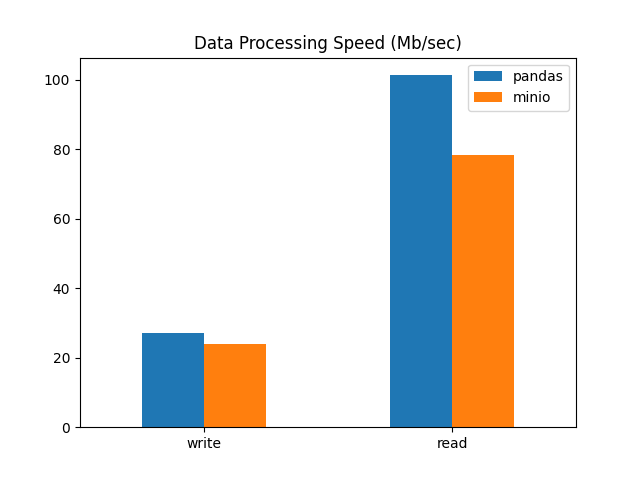
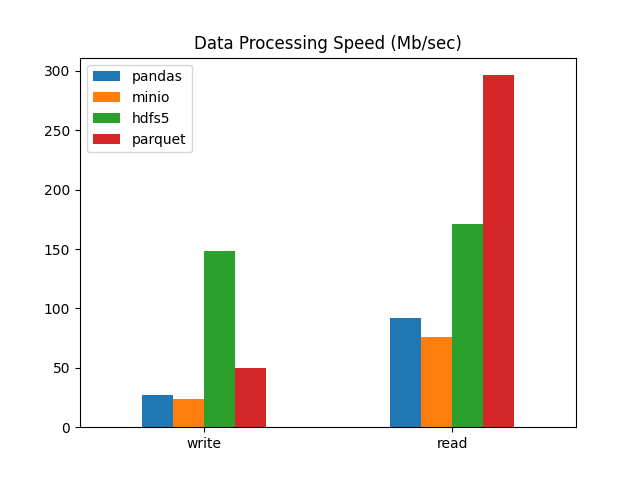
parquet and hdfs are added to benchmark

diff --git a/week-2-storage/benchmark.py b/week-2-storage/benchmark.py
@@ -33,6 +33,14 @@ def init():
         os.mkdir(ROOT_CSV_DIR)
 
 
+def clean_dataframes():
+    # local clean-up
+    csvs = os.listdir(ROOT_CSV_DIR)
+    for csv in csvs:
+        if os.path.exists(ROOT_CSV_DIR + csv):
+            os.remove(ROOT_CSV_DIR + csv)
+
+
 def tear_down():
     # local clean-up
     csvs = os.listdir(ROOT_CSV_DIR)
@@ -128,6 +136,58 @@ def main():
     pd_mean_read_time_csv = elapsed / repeats
     pd_mean_read_speed_csv_mb_per_sec = (csv_size_mb * repeats) / elapsed
 
+    clean_dataframes()
+
+    # Saving with Pandas in hdfs5 format
+    start = default_timer()
+    for i in range(repeats):
+        dataset.to_hdf(ROOT_CSV_DIR + f"dataset_{str(i).zfill(3)}", mode="w", key="df")
+    elapsed = default_timer() - start
+    print(f"[Pandas/HDFS] Total time for saving {repeats} datasets: {time.strftime('%H:%M:%S', time.gmtime(elapsed))}")
+    print(f"[Pandas/HDFS] Average time for saving dataset: {elapsed/repeats} sec")
+    pd_total_write_time_hdfs = elapsed
+    pd_mean_write_time_hdfs = elapsed / repeats
+    pd_mean_write_speed_hdfs_mb_per_sec = (csv_size_mb * repeats) / elapsed
+
+    # Reading with Pandas from hdfs5 format
+    start = default_timer()
+    dfs = []
+    for i in range(repeats):
+        dfs.append(pd.read_hdf(ROOT_CSV_DIR + f"dataset_{str(i).zfill(3)}"))
+    elapsed = default_timer() - start
+    print(f"[Pandas/HDFS] Total time for reading {repeats} datasets: {time.strftime('%H:%M:%S', time.gmtime(elapsed))}")
+    print(f"[Pandas/HDFS] Average time for reading dataset: {elapsed/repeats} sec")
+    pd_total_read_time_hdfs = elapsed
+    pd_mean_read_time_hdfs = elapsed / repeats
+    pd_mean_read_speed_hdfs_mb_per_sec = (csv_size_mb * repeats) / elapsed
+
+    clean_dataframes()
+
+    # Saving with Pandas in parquet format
+    start = default_timer()
+    for i in range(repeats):
+        dataset.to_parquet(ROOT_CSV_DIR + f"dataset_{str(i).zfill(3)}", compression='gzip')
+    elapsed = default_timer() - start
+    print(f"[Pandas/PARQUET] Total time for saving {repeats} datasets: {time.strftime('%H:%M:%S', time.gmtime(elapsed))}")
+    print(f"[Pandas/PARQUET] Average time for saving dataset: {elapsed/repeats} sec")
+    pd_total_write_time_parquet = elapsed
+    pd_mean_write_time_parquet = elapsed / repeats
+    pd_mean_write_speed_parquet_mb_per_sec = (csv_size_mb * repeats) / elapsed
+
+    # Reading with Pandas from parquet format
+    start = default_timer()
+    dfs = []
+    for i in range(repeats):
+        dfs.append(pd.read_parquet(ROOT_CSV_DIR + f"dataset_{str(i).zfill(3)}"))
+    elapsed = default_timer() - start
+    print(f"[Pandas/PARQUET] Total time for reading {repeats} datasets: {time.strftime('%H:%M:%S', time.gmtime(elapsed))}")
+    print(f"[Pandas/PARQUET] Average time for reading dataset: {elapsed/repeats} sec")
+    pd_total_read_time_parquet = elapsed
+    pd_mean_read_time_parquet = elapsed / repeats
+    pd_mean_read_speed_parquet_mb_per_sec = (csv_size_mb * repeats) / elapsed
+
+    clean_dataframes()
+
     # Uploading datasets to the bucket
     start = default_timer()
     for i, df in enumerate(dfs):
@@ -165,9 +225,13 @@ def main():
     # Benchmark, speed of reading and writing, Mb/sec
     pandas = [pd_mean_write_speed_csv_mb_per_sec, pd_mean_read_speed_csv_mb_per_sec]
     minio = [minio_mean_upload_speed_csv_mb_per_sec, minio_mean_download_speed_csv_mb_per_sec]
+    hdfs5 = [pd_mean_write_speed_hdfs_mb_per_sec, pd_mean_read_speed_hdfs_mb_per_sec]
+    parquet = [pd_mean_write_speed_parquet_mb_per_sec, pd_mean_read_speed_parquet_mb_per_sec]
     index = ["write", "read"]
     df = pd.DataFrame({'pandas': pandas,
-                    'minio': minio}, index=index)
+                    'minio': minio,
+                    'hdfs5': hdfs5,
+                    'parquet': parquet}, index=index)
     ax = df.plot.bar(rot=0, title="Data Processing Speed (Mb/sec)")
     fig = ax.get_figure()
     fig.savefig('benchmark-speed.png')
@@ -175,9 +239,13 @@ def main():
     # Benchmark, time for reading and writing of 1Mb
     pandas = [1/pd_mean_write_speed_csv_mb_per_sec, 1/pd_mean_read_speed_csv_mb_per_sec]
     minio = [1/minio_mean_upload_speed_csv_mb_per_sec, 1/minio_mean_download_speed_csv_mb_per_sec]
+    hdfs5 = [1/pd_mean_write_speed_hdfs_mb_per_sec, 1/pd_mean_read_speed_hdfs_mb_per_sec]
+    parquet = [1/pd_mean_write_speed_parquet_mb_per_sec, 1/pd_mean_read_speed_parquet_mb_per_sec]
     index = ["write", "read"]
     df = pd.DataFrame({'pandas': pandas,
-                    'minio': minio}, index=index)
+                    'minio': minio,
+                    'hdfs5': hdfs5,
+                    'parquet': parquet}, index=index)
     ax = df.plot.bar(rot=0, title="Time for processing 1Mb")
     fig = ax.get_figure()
     fig.savefig('benchmark-time.png')
